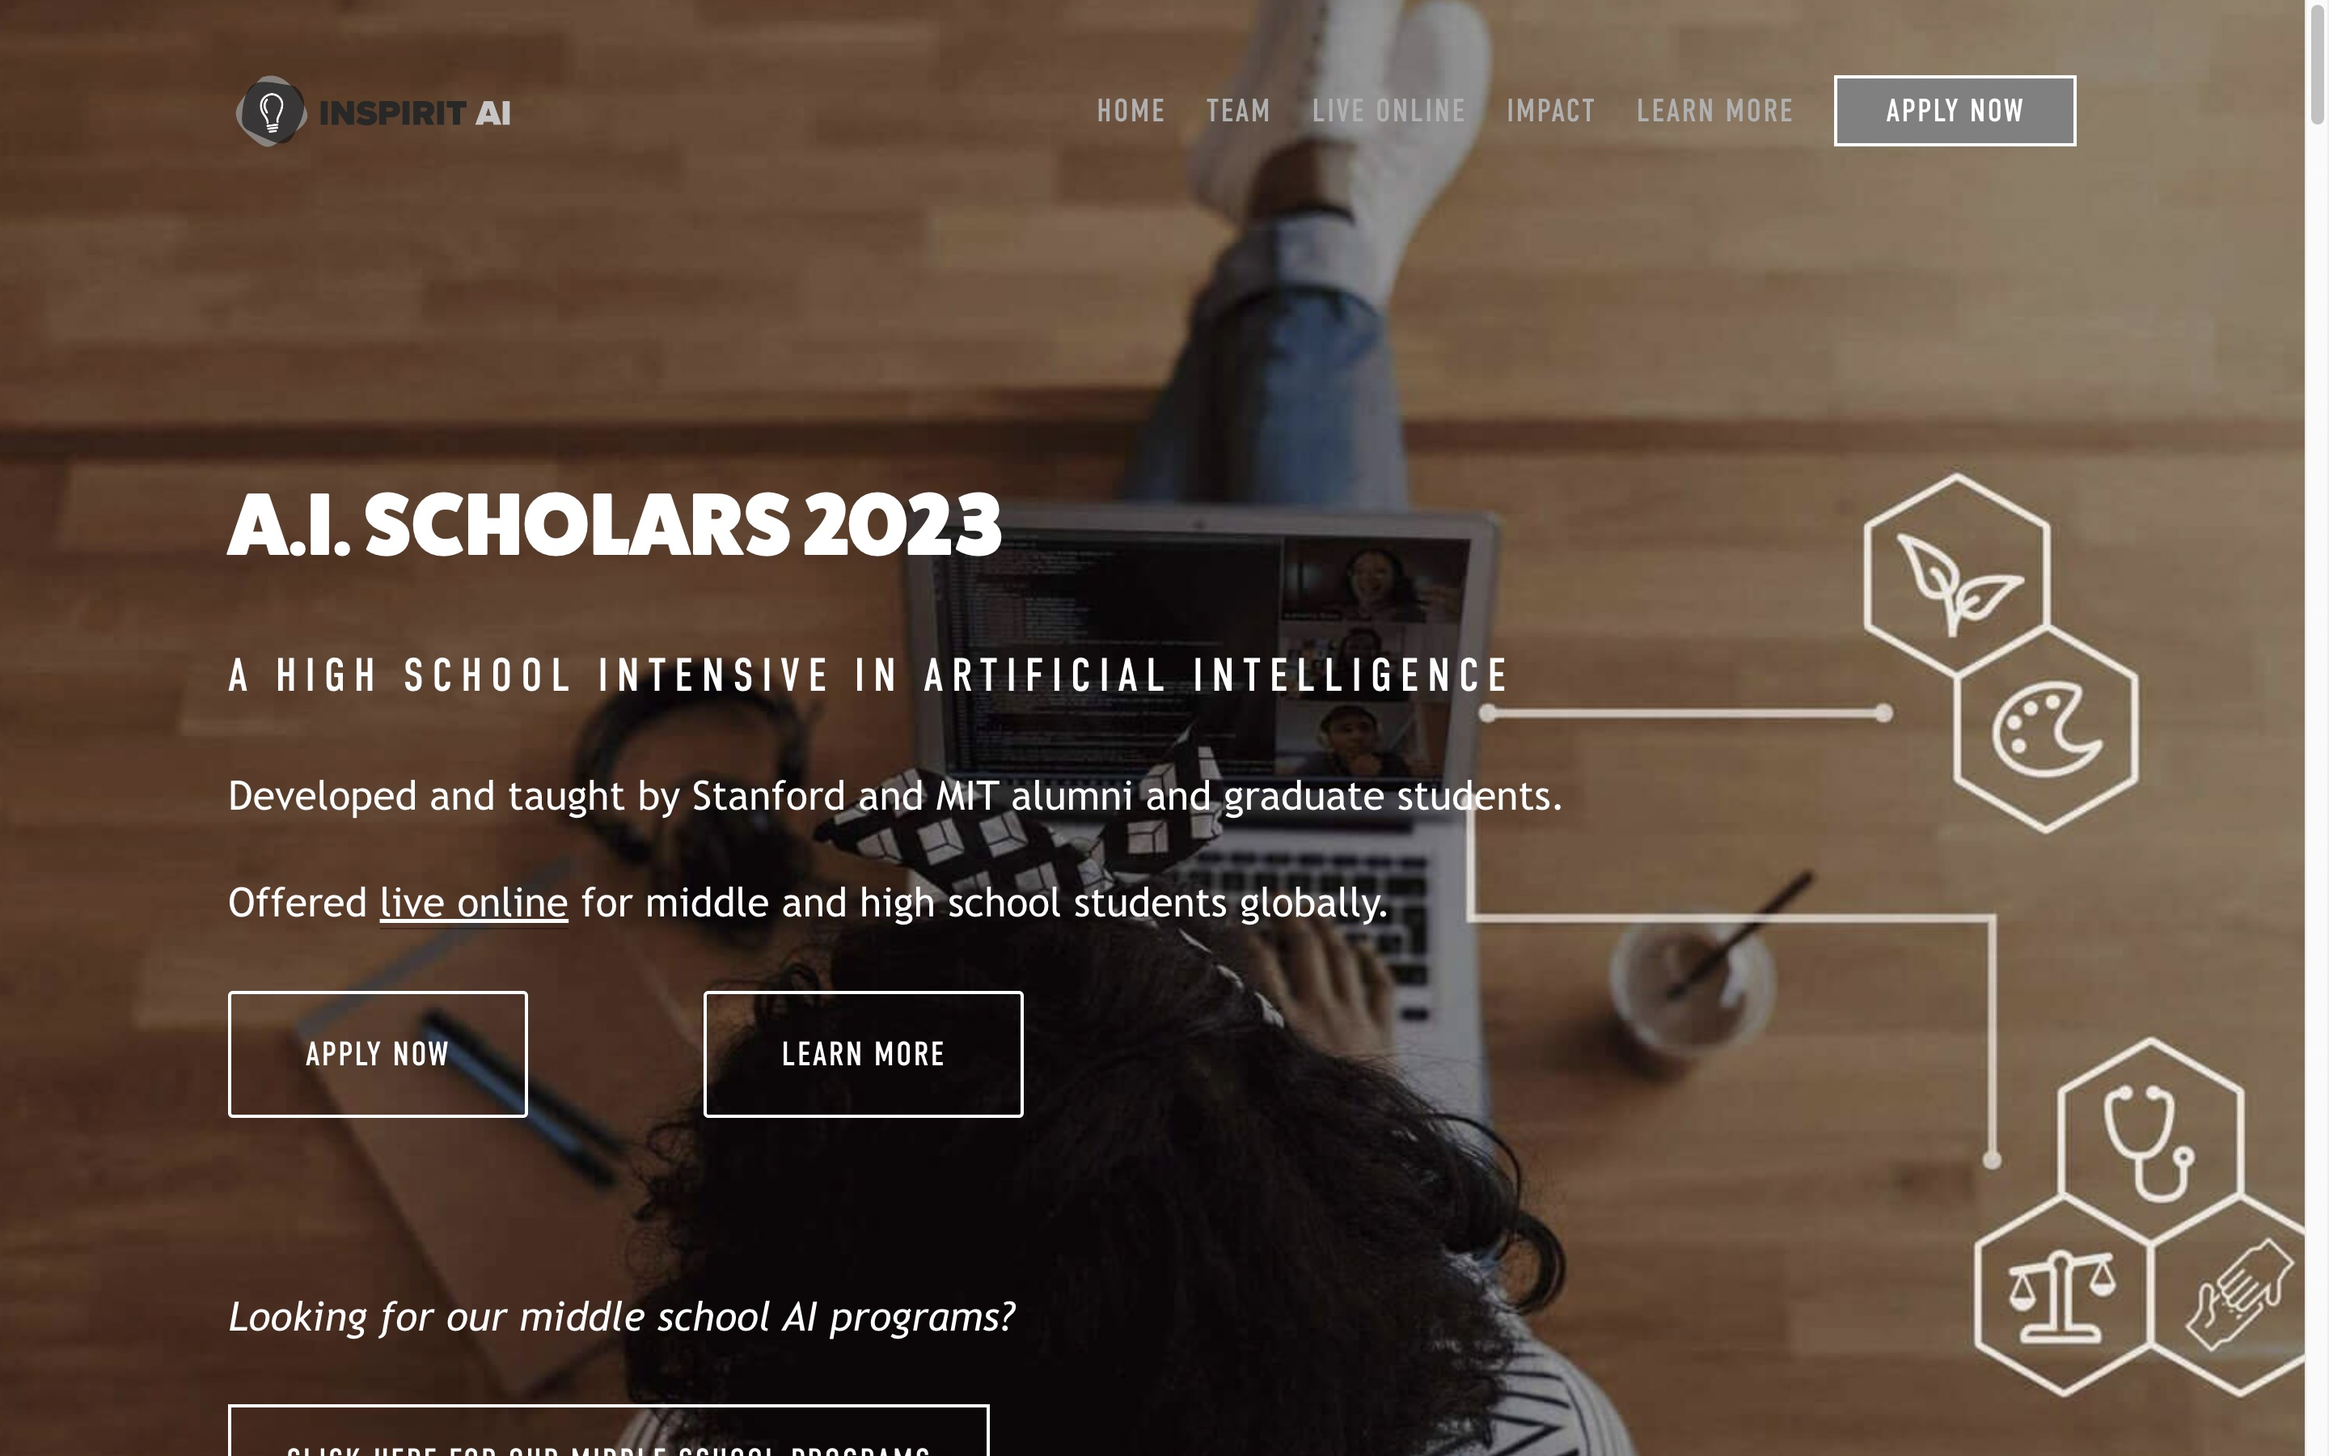
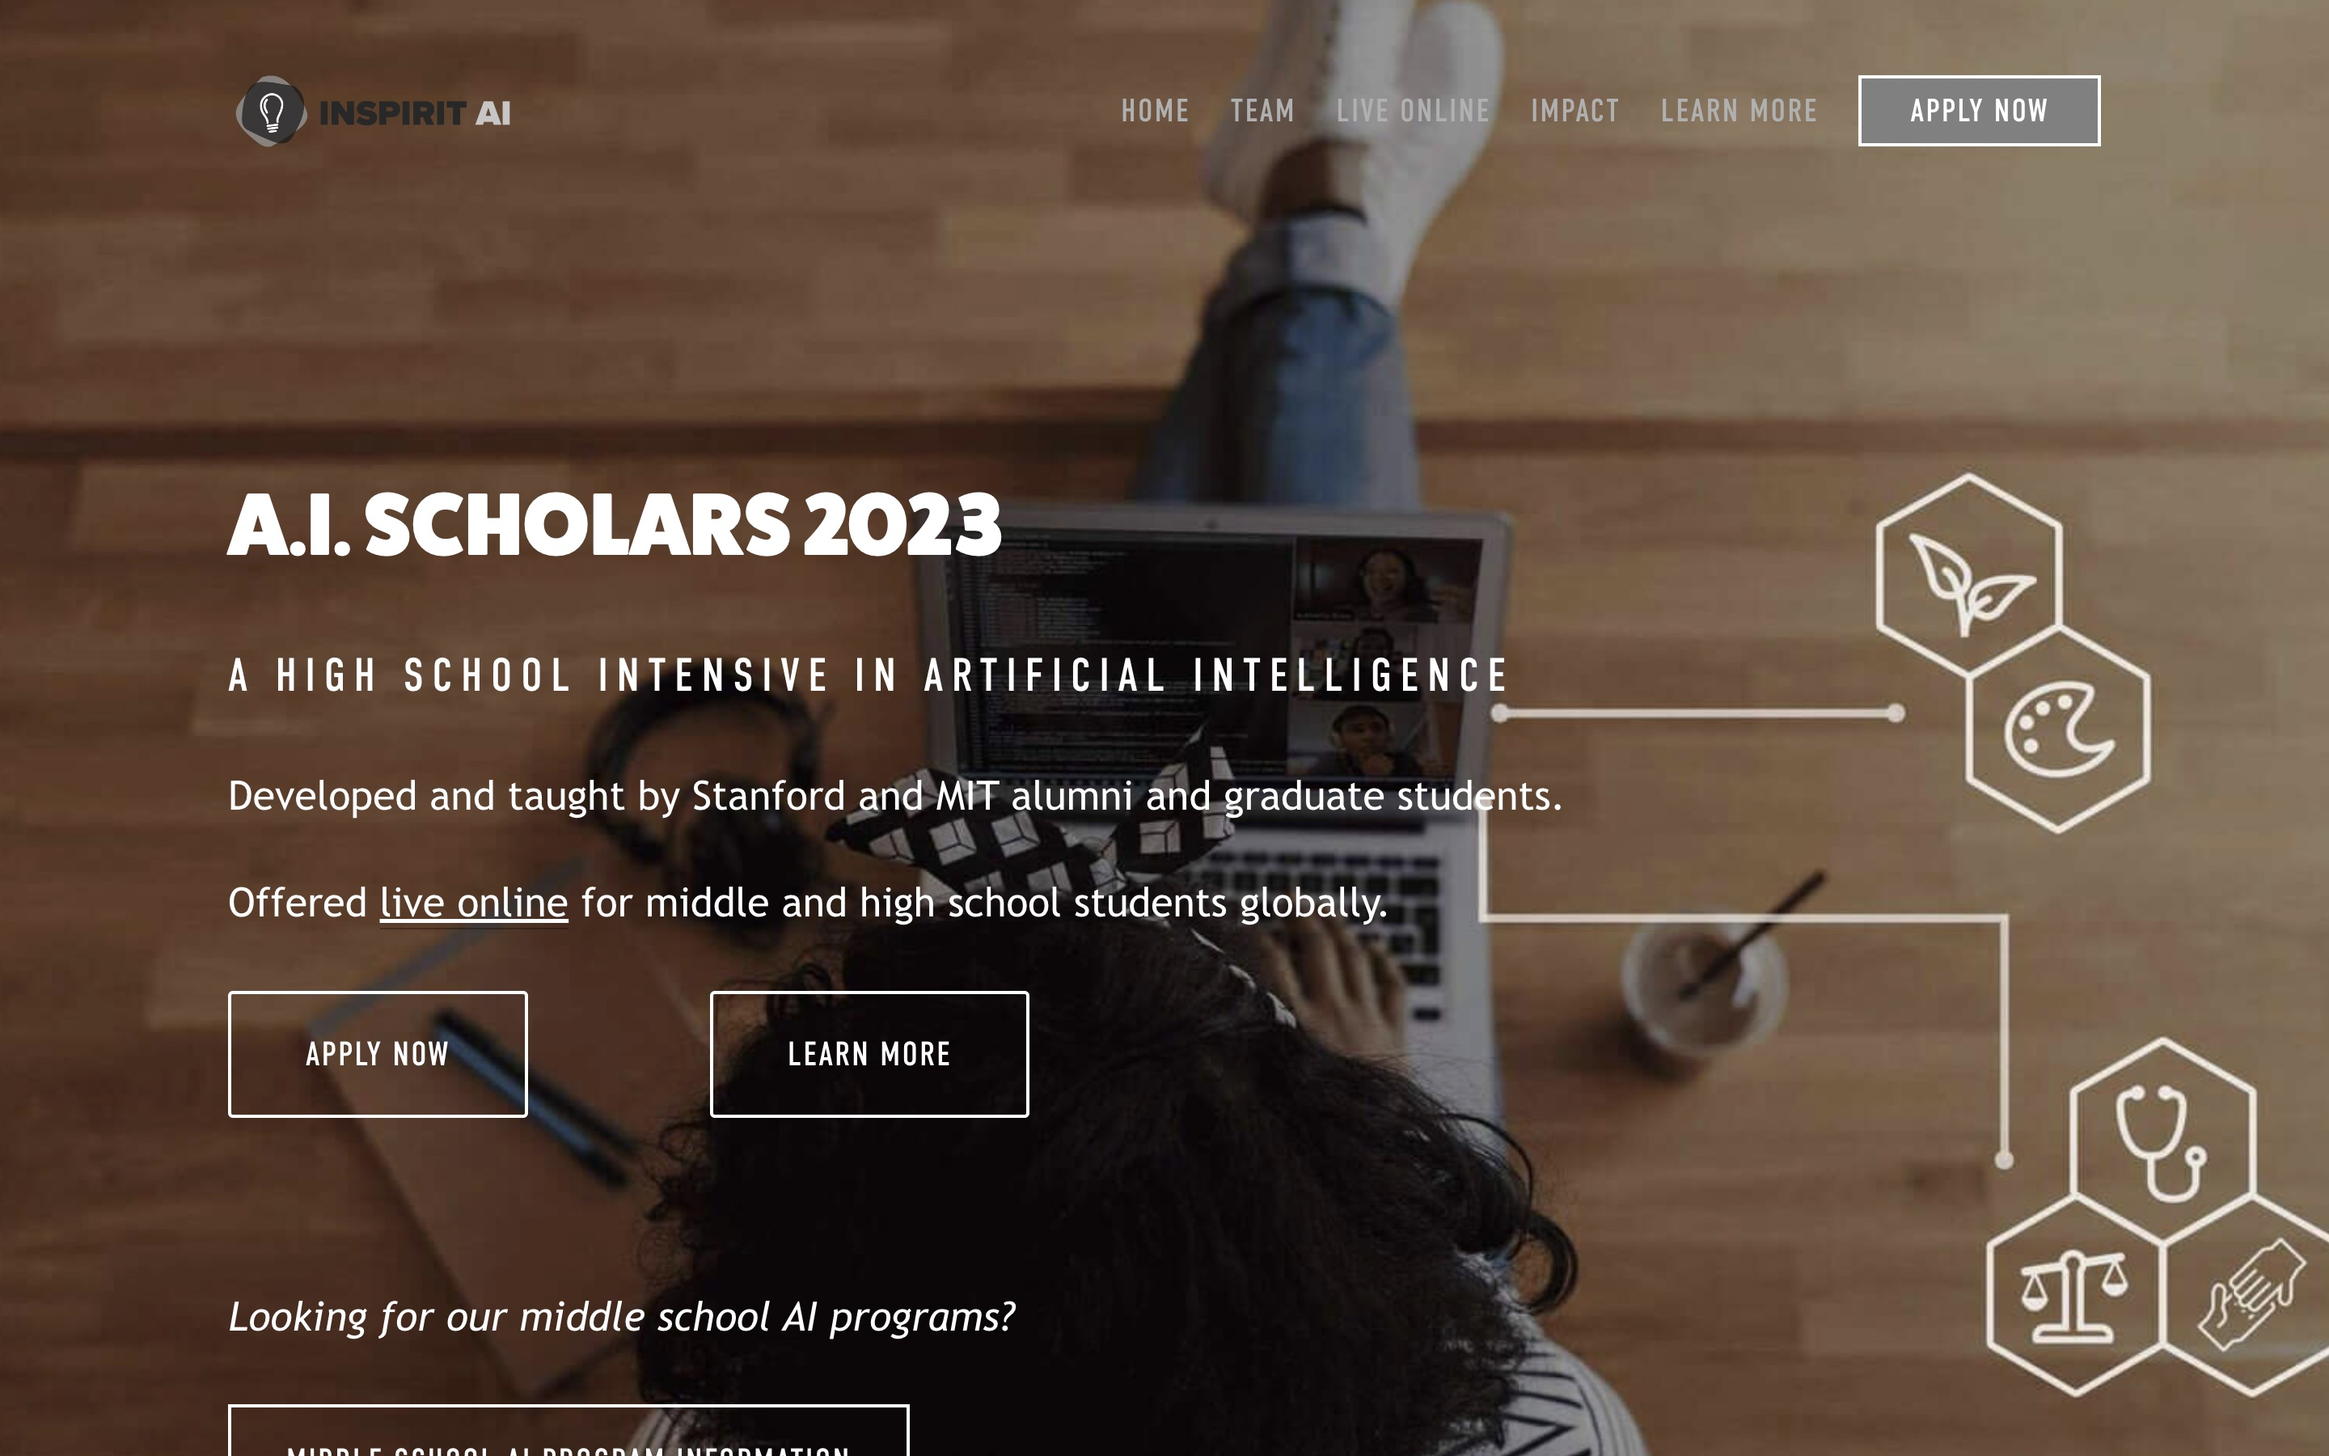
as of 31/12/2022 1130pm latest version

diff --git a/index.html b/index.html
@@ -39,8 +39,8 @@
             <ul class="dropdown">
               <li><a href="#section3">Data Science</a></li>
               <li><a href="#section4">CS+</a></li>
-              <li><a href="#section5">Web Develpment</a></li>
-              <li><a href="#section6">Teaching</a></li>
+              <li><a href="#section5">Teaching</a></li>
+              <li><a href="#section6">Web Develpment</a></li>
               <li><a href="#section7">Thinking Algorithmically</a></li>
               <li><a href="#section8">Social & Ethical Responsibility of Computing</a></li>
             </ul>
@@ -60,8 +60,9 @@
       </section>
     </section>
     <section id="section2">
-      <h2>About Me</h2>
-      <p>Hi there! My name is Dakota and I am currently a high school student attending Phillips Academy in
+      <h2>ABOUT ME</h2>
+      <img src="/img/avatar_me_main.jpg" alt="me" style="height: 20vh; display: inline;"> 
+      <p style="display: inline;">Hi there! My name is Dakota and I am currently a high school student attending Phillips Academy in
         Massachusetts. I have always been interested in the intersection of computer science and other subjects, and
         this has led me to pursue a particular interest in data science and artificial intelligence, with a focus on
         natural language processing for education.
@@ -80,7 +81,7 @@
           <h2>24</h2>
           <p style="color: white;">pairs of headphones owned.</p>
         </div>
-        <div class="number" style="background-color: rgb(200, 221, 255);">
+        <div class="number" style="background-color: #fed141;">
           <h2 style="color: rgb(113, 113, 113) !important;">8</h2>
           <p>programming languages learnt.</p>
         </div>
@@ -88,7 +89,7 @@
           <h2>60</h2>
           <p style="color: white;">students tutored.</p>
         </div>
-        <div class="number" style="background-color: rgb(200, 221, 255);">
+        <div class="number" style="background-color: #fed141;">
           <h2 style="color: rgb(113, 113, 113) !important;">14</h2>
           <p>websites worked on.</p>
         </div>
@@ -96,7 +97,7 @@
           <h2>11</h2>
           <p style="color: white;">years of playing percussion/drums.</p>
         </div>
-        <div class="number" style="background-color: rgb(200, 221, 255);">
+        <div class="number" style="background-color: #fed141;">
           <h2 style="color: rgb(113, 113, 113) !important;">14</h2>
           <p>years of skating.</p>
         </div>
@@ -106,7 +107,7 @@
     <section id="work">
         <section id="section3" class="parallax">
           <section id="work data_science">
-            <h2>Data Science</h2>
+            <h2 style="color: white;">DATA SCIENCE</h2>
             <div class="work-section">
               <div class="work-item">
                 <a href="dataviz.html" target="_blank">
@@ -253,8 +254,101 @@
       </section>
 
       <section id="section5" class="parallax">
+        <section id="work teaching">
+          <h2 style="color: white;">TEACHING</h2>
+          <div class="work-section">
+            <div class="work-item">
+              <a href="http://www.lawrencebgc.com/" target="_blank">
+                <img src="/img/codingCircle.jpg" style="width:100%">
+                <div class="middle">
+                  <div class="text">More</div>
+                </div>
+
+                <p>Title: <i>Coding Circle</i></p>
+                <p>
+                  Skills: Block Programming, Teaching, Python (Pygame), Curriculum Development
+                </p>
+                <p>
+                  We visit Boys and Girls Club @Lawrence weekly to teach around 40
+                  children how to code.
+                  As the coordinator, I started the robotics program and integrated Python
+                  and HTML/CSS/JS into the program. I also worked with the Director of
+                  Digital Arts at the club and expanded the robotics section from 1 robot
+                  to more than 10 robots, allowing more children to learn coding through
+                  robotics.
+                </p>
+              </a>
+            </div>
+            <div class="work-item">
+              <a href="files/PPT_InternetInPrint.pdf" target="_blank">
+                <img src="img/TechInPrint.png" style="width:100%">
+                <div class="middle">
+                  <div class="text">More</div>
+                </div>
+
+                <p>Title: <i>Curriculum Writer</i></p>
+                <p>
+                  Skills: Python, A.I., Curriculum Development
+                </p>
+                <p>
+                  I worked with an English teacher and a Philosophy teacher from my
+                  school to develop a lesson plan for NLP in Literature. The lesson
+                  plan was subsequently adopted into a senior English elective
+                  and taught to students in my school.
+                </p>
+              </a>
+            </div>
+            </div>
+          <div class="work-section">
+            <div class="work-item">
+              <a href="https://bootstrapworld.org/" target="_blank">
+                <img src="/img/bootstrap.png" style="width:100%">
+                <div class="middle">
+                  <div class="text">More</div>
+                </div>
+
+                <p>Title: <i>Bootstrap World</i></p>
+                <p>
+                  Skills: Python, Curriculum Development, A.I.
+                </p>
+                <p>
+                  We visit Boys and Girls Club @Lawrence weekly to teach around 40
+                  children how to code.
+                  As the coordinator, I started the robotics program and integrated Python
+                  and HTML/CSS/JS into the program. I also worked with the Director of
+                  Digital Arts at the club and expanded the robotics section from 1 robot
+                  to more than 10 robots, allowing more children to learn coding through
+                  robotics.
+                </p>
+              </a>
+            </div>
+            <div class="work-item">
+              <a href="https://www.inspiritai.com/" target="_blank">
+                <img src="/img/inspirit.jpeg" style="width:100%">
+                <div class="middle">
+                  <div class="text">More</div>
+                </div>
+
+                <p>Title: <i>Inspirit AI Ambassador</i></p>
+                <p>
+                  Skills: Python, A.I.
+                </p>
+                <p>
+                  I was selected as an Inspirit AI Leadership Fellow and took part
+                  of the AI Ambassador program taught by MIT and Stanford graduates.
+                  AI Scholars is a pre-collegiate AI education program.
+                </p>
+              </a>
+            </div>
+
+          </div>
+          </div>
+        </section>
+      </section>
+
+      <section id="section6" class="parallax">
         <section id="work web_dev">
-          <h2>Web Development</h2>
+          <h2>WEB DEVELOPMENT</h2>
           <div class="work-section">
             <div class="work-item">
               <a href="http://www.thecoachingdot.com/" target="_blank">
@@ -295,101 +389,9 @@
         </section>
       </section>
 
-      <section id="section6" class="parallax">
-        <section id="work teaching">
-          <h2>Teaching</h2>
-          <div class="work-section">
-            <div class="work-item">
-              <a href="http://www.lawrencebgc.com/" target="_blank">
-                <img src="/img/codingCircle.jpg" style="width:100%">
-                <div class="middle">
-                  <div class="text">More</div>
-                </div>
-
-                <p>Title: <i>Coding Circle</i></p>
-                <p>
-                  Skills: Block Programming, Teaching, Python (Pygame), Curriculum Development
-                </p>
-                <p>
-                  We visit Boys and Girls Club @Lawrence weekly to teach around 40
-                  children how to code.
-                  As the coordinator, I started the robotics program and integrated Python
-                  and HTML/CSS/JS into the program. I also worked with the Director of
-                  Digital Arts at the club and expanded the robotics section from 1 robot
-                  to more than 10 robots, allowing more children to learn coding through
-                  robotics.
-                </p>
-              </a>
-            </div>
-            <div class="work-item">
-              <a href="https://bootstrapworld.org/" target="_blank">
-                <img src="/img/bootstrap.png" style="width:100%">
-                <div class="middle">
-                  <div class="text">More</div>
-                </div>
-
-                <p>Title: <i>Bootstrap World</i></p>
-                <p>
-                  Skills: Python, Curriculum Development, A.I.
-                </p>
-                <p>
-                  We visit Boys and Girls Club @Lawrence weekly to teach around 40
-                  children how to code.
-                  As the coordinator, I started the robotics program and integrated Python
-                  and HTML/CSS/JS into the program. I also worked with the Director of
-                  Digital Arts at the club and expanded the robotics section from 1 robot
-                  to more than 10 robots, allowing more children to learn coding through
-                  robotics.
-                </p>
-              </a>
-            </div>
-            </div>
-          <div class="work-section">
-            <div class="work-item">
-              <a href="https://www.inspiritai.com/" target="_blank">
-                <img src="/img/inspirit.jpeg" style="width:100%">
-                <div class="middle">
-                  <div class="text">More</div>
-                </div>
-
-                <p>Title: <i>Inspirit AI Ambassador</i></p>
-                <p>
-                  Skills: Python, A.I.
-                </p>
-                <p>
-                  I was selected as an Inspirit AI Leadership Fellow and took part
-                  of the AI Ambassador program taught by MIT and Stanford graduates.
-                  AI Scholars is a pre-collegiate AI education program.
-                </p>
-              </a>
-            </div>
-            <div class="work-item">
-              <a href="files/PPT_InternetInPrint.pdf" target="_blank">
-                <img src="img/TechInPrint.png" style="width:100%">
-                <div class="middle">
-                  <div class="text">More</div>
-                </div>
-
-                <p>Title: <i>Curriculum Writer</i></p>
-                <p>
-                  Skills: Python, A.I., Curriculum Development
-                </p>
-                <p>
-                  I worked with an English teacher and a Philosophy teacher from my
-                  school to develop a lesson plan for NLP in Literature. The lesson
-                  plan was subsequently adopted into a senior English elective
-                  and taught to students in my school.
-                </p>
-              </a>
-            </div>
-          </div>
-          </div>
-        </section>
-      </section>
-
       <section id="section7" class="parallax">
         <section id="work personal">
-          <h2>Thinking Algorithmically - Daily Usage</h2>
+          <h2 style="color: white;">THINKING ALGORITHMICALLY - DAILY USAGE</h2>
           <div class="work-section">
             <div class="work-item">
               <a href="/headfi" target="_blank">
@@ -409,7 +411,7 @@
                 </p>
               </a>
             </div>
-            <div class="work-item">
+            <!-- <div class="work-item">
               <a href="profiles.html" target="_blank">
                 <img src="/img/profiles_web.png" style="width:100%">
                 <div class="middle">
@@ -427,7 +429,7 @@
                   viewing and listening a lot. However, this website is not meant to be taken seriously.
                 </p>
               </a>
-            </div>
+            </div> -->
           </div>
         </section>
       </section>
@@ -448,6 +450,7 @@
               invisible ways, and 3) introduce participants to the great advocacy out there on
               the legislative and grassroots level seeking to address racial and gender bias
             </p>
+            Download:
             <a href="files/SystemError_RacisminAI.pdf" download="System Error: Racism in AI.pdf">Slides</a>
             <a href="files/RacialBiasandAI_ MLKWorkshopProposal.pdf"
               download="(System Error: Racism in AI) [MLK DAY 2022 Workshop Proposal].pdf">proposal</a>

diff --git a/style_trial.css b/style_trial.css
@@ -14,11 +14,13 @@ header {
 }
 
 header .logo {
-  font-family: "Playfair Display", sans-serif;
+  font-family: "Gilroy-Bold", sans-serif;
+
+  /* font-family: "Playfair Display", sans-serif; */
   display: block;
-  font-size: 24px;
+  font-size: 35px;
   font-weight: bold;
-  padding: 20px;
+  padding-top: 20px;
   text-decoration: none;
 }
 
@@ -57,7 +59,7 @@ nav a {
   position: absolute;
   top: 100%;
   left: 0;
-  background-color: rgb(0, 0, 0);
+  /* background-color: rgb(0, 0, 0); */
   width: 100%;
   z-index: 1;
   padding-top: 10px;
@@ -195,6 +197,7 @@ section {
 
 h1,
 h2 {
+  font-size: 30px;
   padding-left: 40px;
   font-family: "Gilroy-Bold", sans-serif;
 }
@@ -279,8 +282,8 @@ h2 {
 
 .activity h3 {
   font-size: 18px;
+  font-family: "Gilroy-bold", sans-serif;
   font-weight: bold;
-  text-decoration: underline;
   margin: 10px 0;
 }
 
@@ -312,7 +315,7 @@ h2 {
 }
 
 footer {
-  position: fixed;
+  /* position: fixed; */
   bottom: 0;
   left: 0;
   right: 0;
@@ -353,7 +356,7 @@ header .logo {
 }
 
 nav a:hover {
-  background-color: rgb(0, 0, 0);
+  background-color: #fed141;
   color: rgb(255, 255, 255);
 }
 
@@ -387,6 +390,9 @@ nav a {
   color: rgb(113, 113, 113);
 }
 
+.activity h3 {
+  color: #fed141;
+}
 /* button */
 .text {
   background-color: #000000;
@@ -404,7 +410,7 @@ h2 {
 #section3,
 #section5,
 #section7 {
-  background-color: rgb(200, 221, 255);
+  background-color: rgb(113, 113, 113);
 }
 
 #section2,
